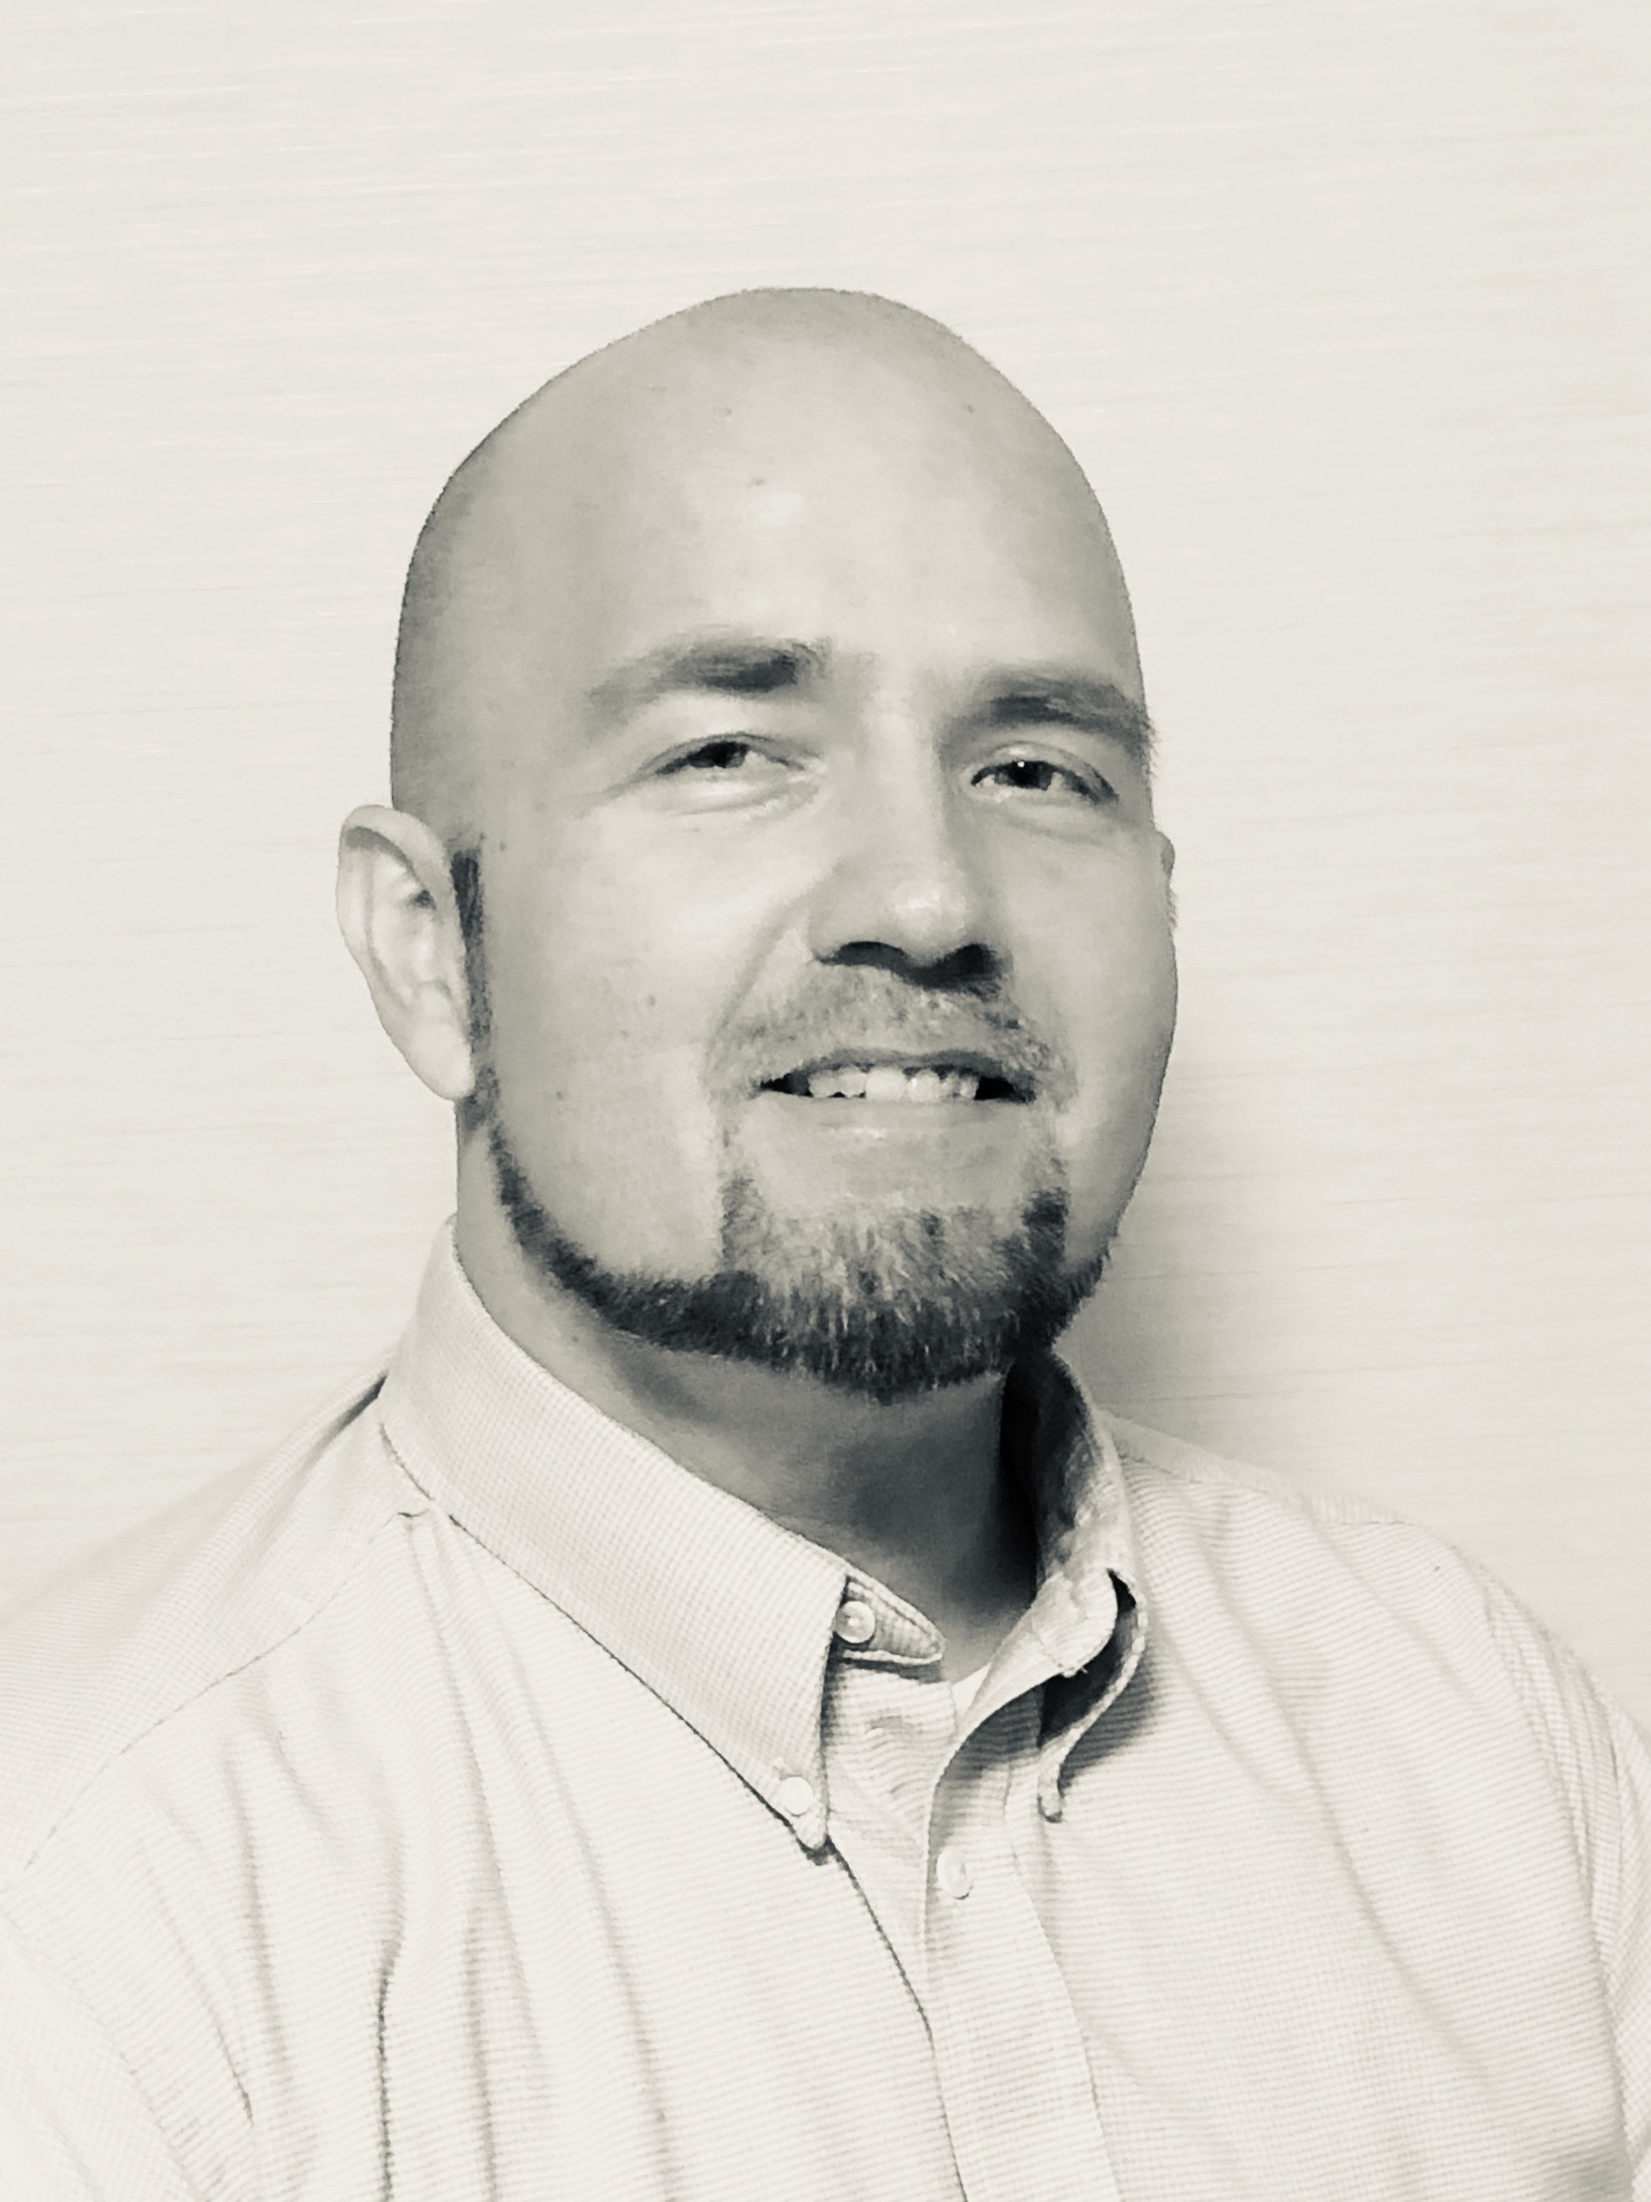
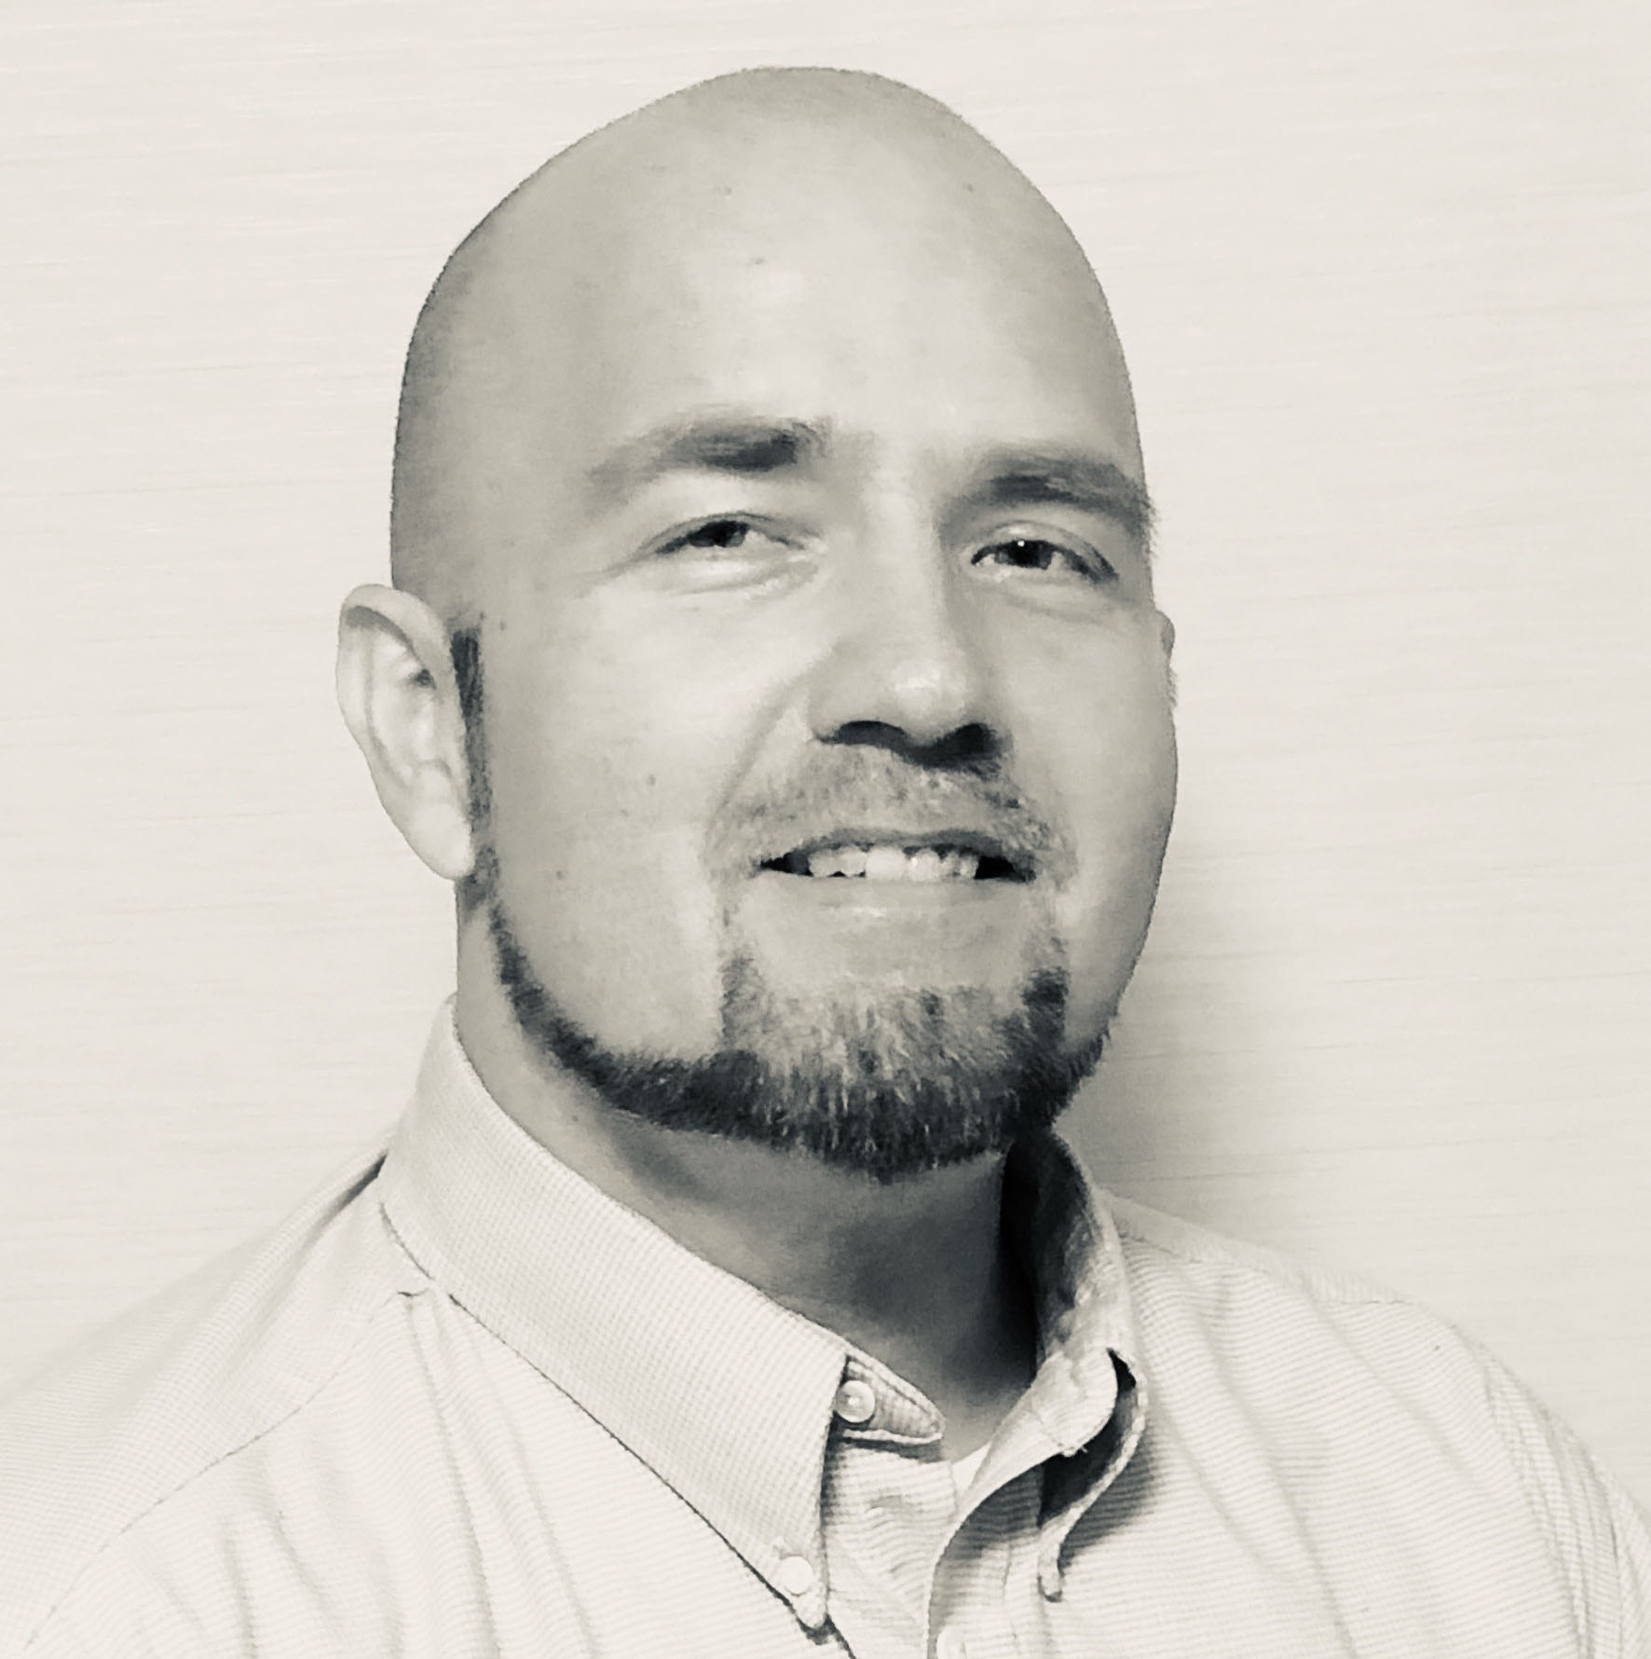
Made minor modifications to the markup of index.html. Added more styling to index.less. Cropped vincent-sanders.jpg and added an alternative image.

diff --git a/less/index.less b/less/index.less
@@ -51,31 +51,166 @@ table {
 //Import font from Google Fonts
 @import url('https://fonts.googleapis.com/css?family=Open+Sans&display=swap');
 
+//Variables
+@primary-color: #252c3b;
+@highlight: #e6007e;
+
 /* Set every element's box-sizing to border-box */
 * {
     box-sizing: border-box;
 }
 
-html, body {
-	height: 100%;
+html {
+	font-size: 62.5%;
 	font-family: 'Open Sans', sans-serif;
 }
 
+html, body {
+	height: 100%;
+}
+
+body {
+	font-size: 1.6rem;
+	line-height: 1.8;
+}
+
+h1, h2, h3, h4, h5, h6 {
+	font-weight: bold;
+}
+
+h1 {
+	font-size: 4rem;
+}
+
+h2 {
+	font-size: 3rem;
+}
+
+h3 {
+	font-size: 2.5rem;
+}
+
+h4 {
+	font-size: 2rem;
+}
+
 .container {
-	width: 90vw;
+	width: 60vw;
 	margin: 0 auto;
 }
 
 nav {
 	display: flex;
 	justify-content: flex-end;
+	margin: 3% 0;
 	a {
 		text-decoration: none;
-		width: 10%;
-		color: black;
+		padding-left: 3%;
+		color: @primary-color;
+		font-weight: bold;
+		text-align: right;
+	}
+	a:hover {
+		color: @highlight;
 	}
 }
 
 .cta {
-	background: steelblue;
+	display: flex;
+	flex-direction: column;
+	background: @primary-color;
+	padding: 6% 4%;
+	color: white;
+	img {
+		width: 30%;
+	}
+	h1 {
+		margin: 1% 0;
+		span {
+			color: @highlight;
+		}
+	}
+	h4 {
+		padding: 1% 0 2% 0;
+		border-bottom: 1px solid darkgray;
+	}
+	p {
+		margin: 2% 0;
+	}
+	button {
+		width: 20%;
+		padding: 1%;
+		font-size: 2rem;
+		background: transparent;
+		color: white;
+		border: 1px solid white;
+		border-radius: 4px;
+	}
+	button:hover {
+		background: @highlight;
+	}
+}//End of .cta
+
+.about-me {
+	display: flex;
+	justify-content: space-between;
+	margin: 2% auto;
+	.bio {
+		width: 48%;
+		h2 {
+			padding: 3% 0;
+		}
+	}
+	.skills {
+		width: 48%;
+		h3 {
+			padding: 3% 0;
+		}
+		ul {
+			width: 100%;
+			li {
+				width: 100%;
+				border: 1px solid lightgray;
+				padding: 1% 2%;
+				font-size: 1.8rem;
+			}//Ends li
+		}//Ends ul
+	}//Ends .skills
+}//Ends .about-me
+
+.work-history {
+	display: flex;
+	flex-direction: column;
+	table {
+		font-size: 1.8rem;
+		tr {
+			border-bottom: 1px solid lightgray;
+			th {
+				font-weight: bold;
+				text-align: left;
+				padding: 1.5%;
+				border-top: 1px solid lightgray;
+			}
+			td {
+				padding: 1.5%;
+			}
+			td:nth-child(1) {
+				font-weight: bold;
+			}
+		}//Ends tr
+		tr:nth-child(2), tr:nth-child(4) {
+			background: lavender;
+		}//Ends tr children
+	}//Ends table
+}//Ends .work-history
+
+footer {
+	display: flex;
+	background: @primary-color;
+	color: white;
+	justify-content: center;
+	margin-top: 6%;
+	padding: 2% 2% 4% 2%;
+	font-size: 1.4rem;
+	font-weight: bold;
 }

diff --git a/css/index.css b/css/index.css
@@ -137,24 +137,151 @@ table {
 * {
   box-sizing: border-box;
 }
+html {
+  font-size: 62.5%;
+  font-family: 'Open Sans', sans-serif;
+}
 html,
 body {
   height: 100%;
-  font-family: 'Open Sans', sans-serif;
+}
+body {
+  font-size: 1.6rem;
+  line-height: 1.8;
+}
+h1,
+h2,
+h3,
+h4,
+h5,
+h6 {
+  font-weight: bold;
+}
+h1 {
+  font-size: 4rem;
+}
+h2 {
+  font-size: 3rem;
+}
+h3 {
+  font-size: 2.5rem;
+}
+h4 {
+  font-size: 2rem;
 }
 .container {
-  width: 90vw;
+  width: 60vw;
   margin: 0 auto;
 }
 nav {
   display: flex;
   justify-content: flex-end;
+  margin: 3% 0;
 }
 nav a {
   text-decoration: none;
-  width: 10%;
-  color: black;
+  padding-left: 3%;
+  color: #252c3b;
+  font-weight: bold;
+  text-align: right;
+}
+nav a:hover {
+  color: #e6007e;
 }
 .cta {
-  background: steelblue;
+  display: flex;
+  flex-direction: column;
+  background: #252c3b;
+  padding: 6% 4%;
+  color: white;
+}
+.cta img {
+  width: 30%;
+}
+.cta h1 {
+  margin: 1% 0;
+}
+.cta h1 span {
+  color: #e6007e;
+}
+.cta h4 {
+  padding: 1% 0 2% 0;
+  border-bottom: 1px solid darkgray;
+}
+.cta p {
+  margin: 2% 0;
+}
+.cta button {
+  width: 20%;
+  padding: 1%;
+  font-size: 2rem;
+  background: transparent;
+  color: white;
+  border: 1px solid white;
+  border-radius: 4px;
+}
+.cta button:hover {
+  background: #e6007e;
+}
+.about-me {
+  display: flex;
+  justify-content: space-between;
+  margin: 2% auto;
+}
+.about-me .bio {
+  width: 48%;
+}
+.about-me .bio h2 {
+  padding: 3% 0;
+}
+.about-me .skills {
+  width: 48%;
+}
+.about-me .skills h3 {
+  padding: 3% 0;
+}
+.about-me .skills ul {
+  width: 100%;
+}
+.about-me .skills ul li {
+  width: 100%;
+  border: 1px solid lightgray;
+  padding: 1% 2%;
+  font-size: 1.8rem;
+}
+.work-history {
+  display: flex;
+  flex-direction: column;
+}
+.work-history table {
+  font-size: 1.8rem;
+}
+.work-history table tr {
+  border-bottom: 1px solid lightgray;
+}
+.work-history table tr th {
+  font-weight: bold;
+  text-align: left;
+  padding: 1.5%;
+  border-top: 1px solid lightgray;
+}
+.work-history table tr td {
+  padding: 1.5%;
+}
+.work-history table tr td:nth-child(1) {
+  font-weight: bold;
+}
+.work-history table tr:nth-child(2),
+.work-history table tr:nth-child(4) {
+  background: lavender;
+}
+footer {
+  display: flex;
+  background: #252c3b;
+  color: white;
+  justify-content: center;
+  margin-top: 6%;
+  padding: 2% 2% 4% 2%;
+  font-size: 1.4rem;
+  font-weight: bold;
 }

diff --git a/index.html b/index.html
@@ -25,8 +25,8 @@
           </nav>
         </header>
         <section class="cta">
-          <img src="images/vincent-sanders.JPG" alt="photo of Vincent Sanders">
-          <h1>Vincent Sanders - Full-Stack Web Developer</h1>
+          <img src="images/vincent-sanders-2.jpg" alt="photo of Vincent Sanders">
+          <h1><span>Vincent Sanders</span> - Full-Stack Web Developer</h1>
           <h4>Technology is my jam!</h4>
           <p>Occasionally I have time to work on side projects. If you're interested, let me know by clicking the button below and signing up.</p>
           <button>let's Team Up</button>
@@ -34,7 +34,7 @@
         <section class="about-me">
           <div class="bio">
             <h2>About Me...</h2>
-            <p>Lorem ipsum dolor sit amet consectetur adipisicing elit. Quibusdam a omnis deleniti qui optio. Eos, aut perferendis. Neque architecto quasi doloremque impedit suscipit, ullam consequuntur illo possimus voluptate nulla ipsa? Lorem ipsum dolor sit amet consectetur adipisicing elit. Cumque illum temporibus enim quasi, tempore tenetur ipsum adipisci, tempora deleniti accusamus corrupti iure perferendis nostrum error voluptatibus assumenda exercitationem expedita rerum?</p>
+            <p>Lorem ipsum dolor sit amet consectetur adipisicing elit. Quibusdam a omnis deleniti qui optio. Eos, aut perferendis. Neque architecto quasi doloremque impedit suscipit, ullam consequuntur illo possimus voluptate nulla ipsa? Lorem ipsum dolor sit amet consectetur adipisicing elit. Cumque illum temporibus enim quasi, tempore tenetur ipsum adipisci, tempora deleniti accusamus corrupti iure?</p>
           </div>
           <div class="skills">
             <h3>Stuff I'm Good At:</h3>
